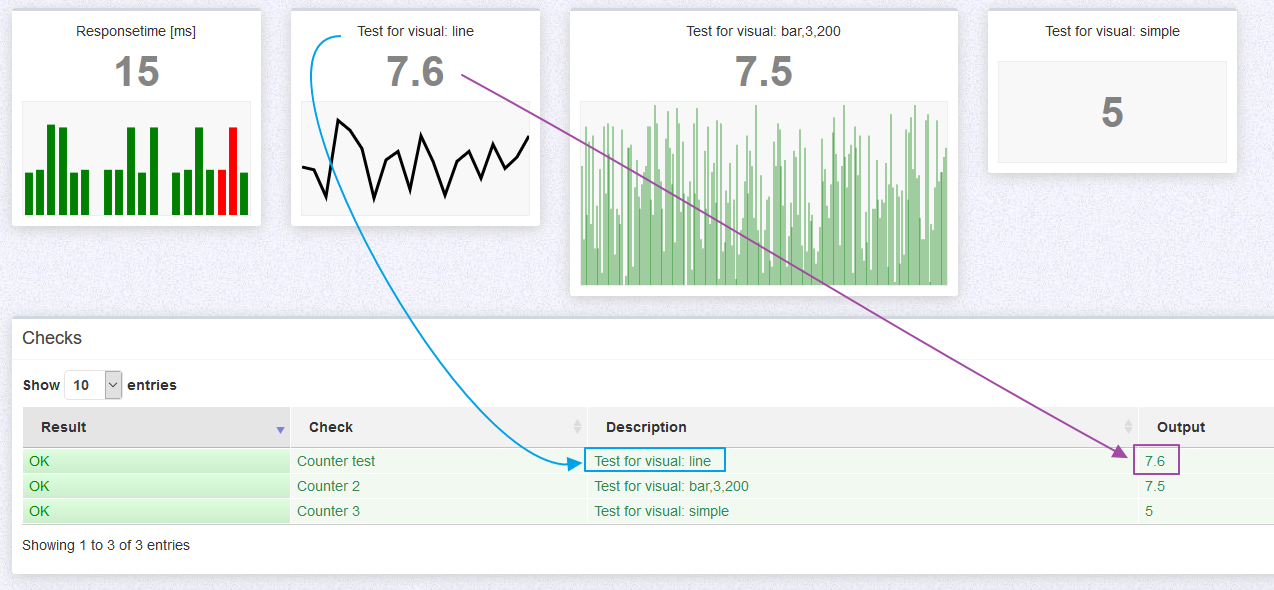
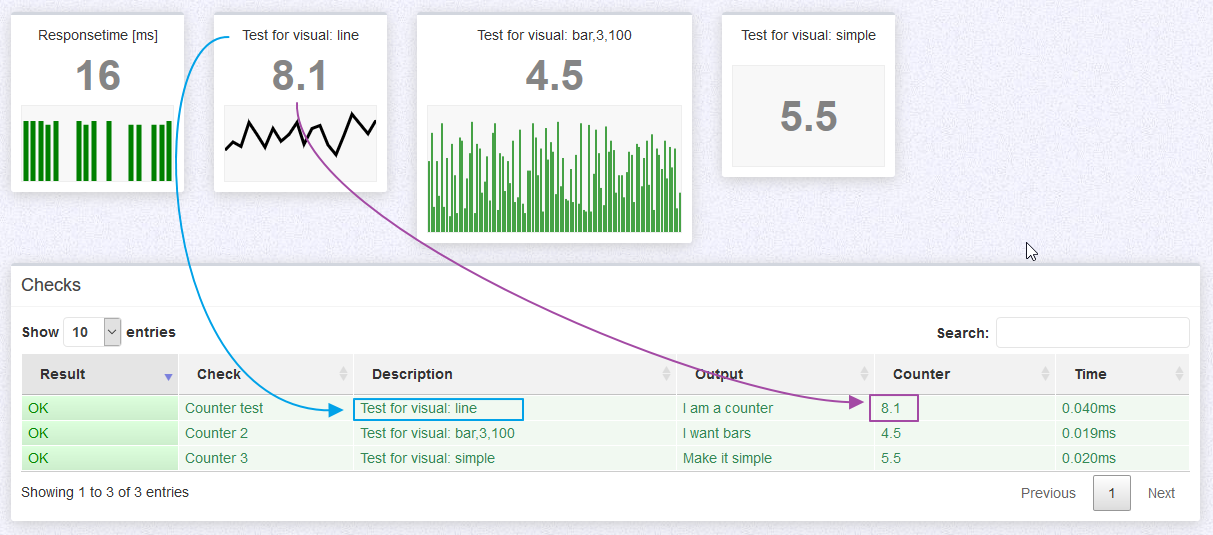
v0.76 2019-05-10     - client+server: remove type=counter ... replaced with count=[value]

diff --git a/server/classes/appmonitor-server-gui.class.php b/server/classes/appmonitor-server-gui.class.php
@@ -19,7 +19,7 @@ require_once 'render-adminlte.class.php';
  * TODO:
  * - GUI uses cached data only
  * --------------------------------------------------------------------------------<br>
- * @version 0.75
+ * @version 0.76
  * @author Axel Hahn
  * @link TODO
  * @license GPL
@@ -31,7 +31,7 @@ class appmonitorserver_gui extends appmonitorserver {
     var $_sProjectUrl = "https://github.com/iml-it/appmonitor";
     var $_sDocUrl = "https://github.com/iml-it/appmonitor/blob/master/readme.md";
     var $_sTitle = "Appmonitor Server";
-    var $_sVersion = "0.75";
+    var $_sVersion = "0.76";
 
     /**
      * html code for icons in the web gui
@@ -604,6 +604,7 @@ class appmonitorserver_gui extends appmonitorserver {
             $this->_tr('Check'),
             $this->_tr('Description'),
             $this->_tr('Output'),
+            $this->_tr('Count'),
             $this->_tr('Time'),
         )) : $this->_generateTableHead(array(
             $this->_tr('Result'),
@@ -665,6 +666,7 @@ class appmonitorserver_gui extends appmonitorserver {
                                 '<td>' . $aCheck["name"] . '</td>'
                                 . '<td>' . $aCheck["description"] . '</td>'
                                 . '<td>' . $aCheck["value"] . '</td>'
+                                . '<td>' . (isset($aCheck["count"]) ? $aCheck["count"] : '-') . '</td>'
                                 . '<td>' . (isset($aCheck["time"]) ? $aCheck["time"] : '-') . '</td>'
                                 . '</tr>';
                     }
@@ -1657,7 +1659,6 @@ class appmonitorserver_gui extends appmonitorserver {
         }
         $iCounter++;
         $bIsPie=($aOptions['type']==='pie');
-        
         $aOptions['xLabel']=isset($aOptions['xLabel']) ? $aOptions['xLabel'] : '';
         $aOptions['yLabel']=isset($aOptions['yLabel']) ? $aOptions['yLabel'] : '';
         $aOptions['xValue']=isset($aOptions['xValue']) ? $aOptions['xValue'] : ($bIsPie ? false : true);

diff --git a/server/classes/appmonitor-server.class.php b/server/classes/appmonitor-server.class.php
@@ -501,7 +501,7 @@ class appmonitorserver {
                             'status'=>$aCheck['result'], 
                             'value'=>str_replace('ms', '', $aCheck['time'])
                         ));
-                        if(isset($aCheck['type']) && $aCheck['type']==='counter'){
+                        if(isset($aCheck['count']) || (isset($aCheck['type']) && $aCheck['type']==='counter')){
                             $sCounterId='check-'.$sIdSuffix;
                             // $oCounters->setCounter($sCounterId);
                             $oCounters->setCounter($sCounterId, array(
@@ -510,7 +510,7 @@ class appmonitorserver {
                             ));
                             $oCounters->add(array(
                                 'status'=>$aCheck['result'], 
-                                'value'=>$aCheck['value']
+                                'value'=>isset($aCheck['count']) ? $aCheck['count'] : $aCheck['value']
                             ));
                         }
                     }

diff --git a/client/classes/appmonitor-checks.class.php b/client/classes/appmonitor-checks.class.php
@@ -31,7 +31,7 @@ define("RESULT_ERROR", 3);
  * 2018-08-27  0.52  axel.hahn@iml.unibe.ch  add pdo connect (starting with mysql)<br>
  * 2018-11-05  0.58  axel.hahn@iml.unibe.ch  additional flag in http check to show content<br>
  * --------------------------------------------------------------------------------<br>
- * @version 0.72
+ * @version 0.76
  * @author Axel Hahn
  * @link TODO
  * @license GPL
@@ -621,7 +621,7 @@ class appmonitorcheck {
     protected function checkSimple($aParams) {
         $this->_checkArrayKeys($aParams, "result,value");
         $this->_setReturn((int) $aParams["result"], $aParams["value"]);
-        foreach(array('type', 'visual') as $sMyKey){
+        foreach(array('type', 'count', 'visual') as $sMyKey){
             if(isset($aParams[$sMyKey])){
                 $this->_aData[$sMyKey]=$aParams[$sMyKey];
             }

diff --git a/client/classes/appmonitor-client.class.php b/client/classes/appmonitor-client.class.php
@@ -22,7 +22,7 @@
  * 2018-08-27  0.52  axel.hahn@iml.unibe.ch  add pdo connect (starting with mysql)<br>
  * 2018-11-05  0.58  axel.hahn@iml.unibe.ch  additional flag in http check to show content<br>
  * --------------------------------------------------------------------------------<br>
- * @version 0.75
+ * @version 0.76
  * @author Axel Hahn
  * @link TODO
  * @license GPL
@@ -36,7 +36,7 @@ class appmonitor {
      * value is in seconds
      * @var int
      */
-    protected $_sVersion = 'php-client-v0.75';
+    protected $_sVersion = 'php-client-v0.76';
 
     /**
      * config: default ttl for server before requesting the client check again

diff --git a/docs/client.md b/docs/client.md
@@ -69,7 +69,7 @@ returns JSON answers with the conventions described below.
             "result": [{integer}: 0..3]
             "value": "[{string}: result in words or {float} value for type=counter]",
             "time": "[{float} value]ms"
-            "type": "[{string} counter]"
+            "count": "[{float} counter value]"
             "visual": "[{string} bar|line|simple[,options]]"
         },
         ...
@@ -79,7 +79,7 @@ returns JSON answers with the conventions described below.
             "result": [integer: 0..3]
             "value": "[{string}: result in words]" 
             "time": "[value]ms"
-            "type": "[{string} counter]"
+            "count": "[{float} counter value]"
             "visual": "[{string} bar|line|simple[,options]]"
         }
     ] 
@@ -151,16 +151,14 @@ Each check must have these keys:
   i.e. 
   - OK, database was connected successfully
   - ERROR: no write permission on file XY
-  OR
-  a float value (if type = counter)
 - *"time"*: "[value]ms" <span class="optional">(optional)</span>\
   time that was used for the single check. The value must be a float in milliseconds plus additional "ms" (without space). \
   Example: `"time": "0.628ms"`
-- *"type"*: "[string: counter]" <span class="optional">(optional)</span>\
-  type of the return value in the field "value". Default is a string and will show the message in a table.\
-  if it is set to "counter" in the appnmonitor server additionally will render a tile with a graph. The type of graph is set with "visual" value.\
-  If a check is marked es counter then the server stores "a few" values to be able to render a graph the last items. The value in "name" will be used as identifier of the stored items.
-  Example: `"type": "counter"`
+- *"count"*: "[float: counter value]" <span class="optional">(optional)</span>\
+  The value must be a float. If it is set then the server will store these values to render a graph with the last data items.\
+  The value in "name" will be used as identifier of the stored items.\
+  The type of graph is set with "visual" value.\
+  Example: `"count": 12.84`
 - *"visual"*: "[string: bar|line|simple[,[width,[count]]]]" <span class="optional">(optional)</span>\
   The visual value works for type=counter only.\
   A tile with a counter shows a tile with "description", a strong item "value" and a graph
@@ -193,27 +191,27 @@ Here is an example output of 3 styles and its source from the client.
 				"name": "Counter test",
 				"description": "Test for visual: line",
 				"result": 0,
-				"value": "7.6",
-				"type": "counter",
-				"time": "0.048ms",
+				"value": "I am a counter",
+				"time": "0.040ms",
+				"count": 8.1,
 				"visual": "line"
 			},
 			{
 				"name": "Counter 2",
-				"description": "Test for visual: bar,3,200",
+				"description": "Test for visual: bar,3,100",
 				"result": 0,
-				"value": "7.5",
-				"type": "counter",
-				"time": "0.018ms",
-				"visual": "bar,3,200"
+				"value": "I want bars",
+				"time": "0.019ms",
+				"count": 4.5,
+				"visual": "bar,3,100"
 			},
 			{
 				"name": "Counter 3",
 				"description": "Test for visual: simple",
 				"result": 0,
-				"value": "5",
-				"type": "counter",
-				"time": "0.016ms",
+				"value": "Make it simple",
+				"time": "0.020ms",
+				"count": 5.5,
 				"visual": "simple"
 			}
 		]
